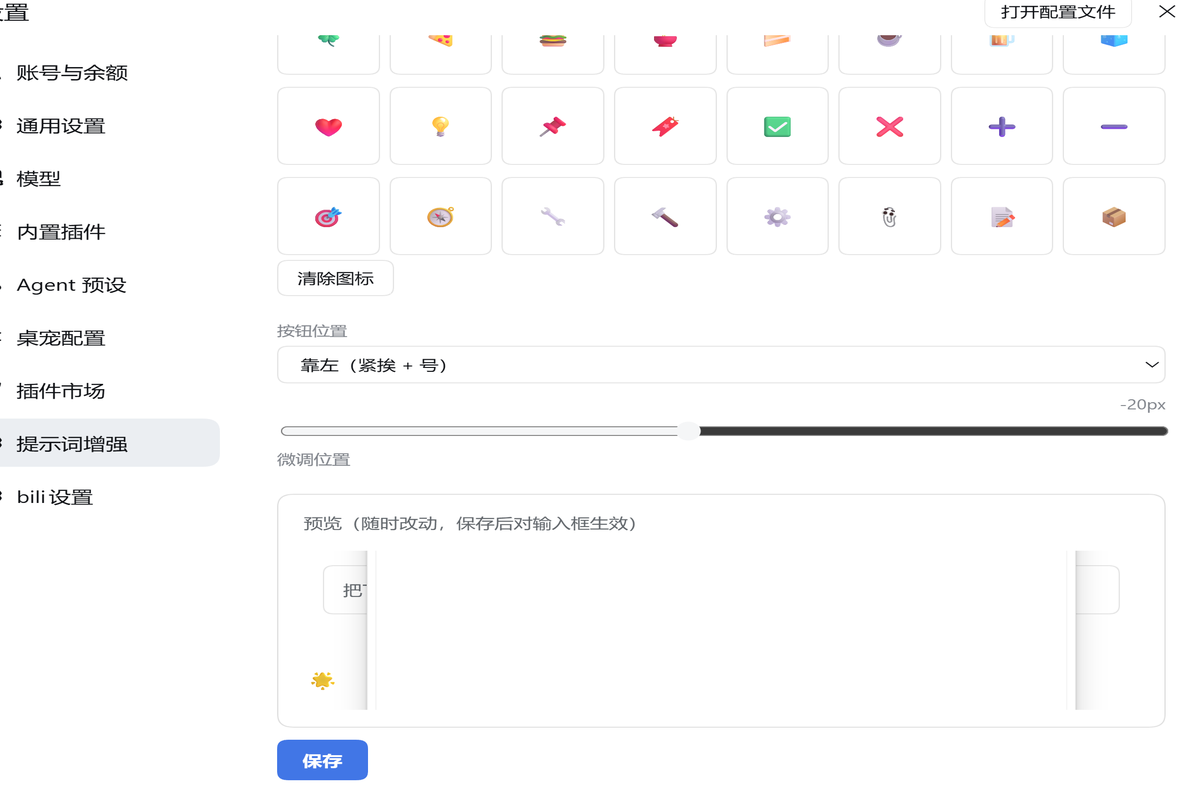
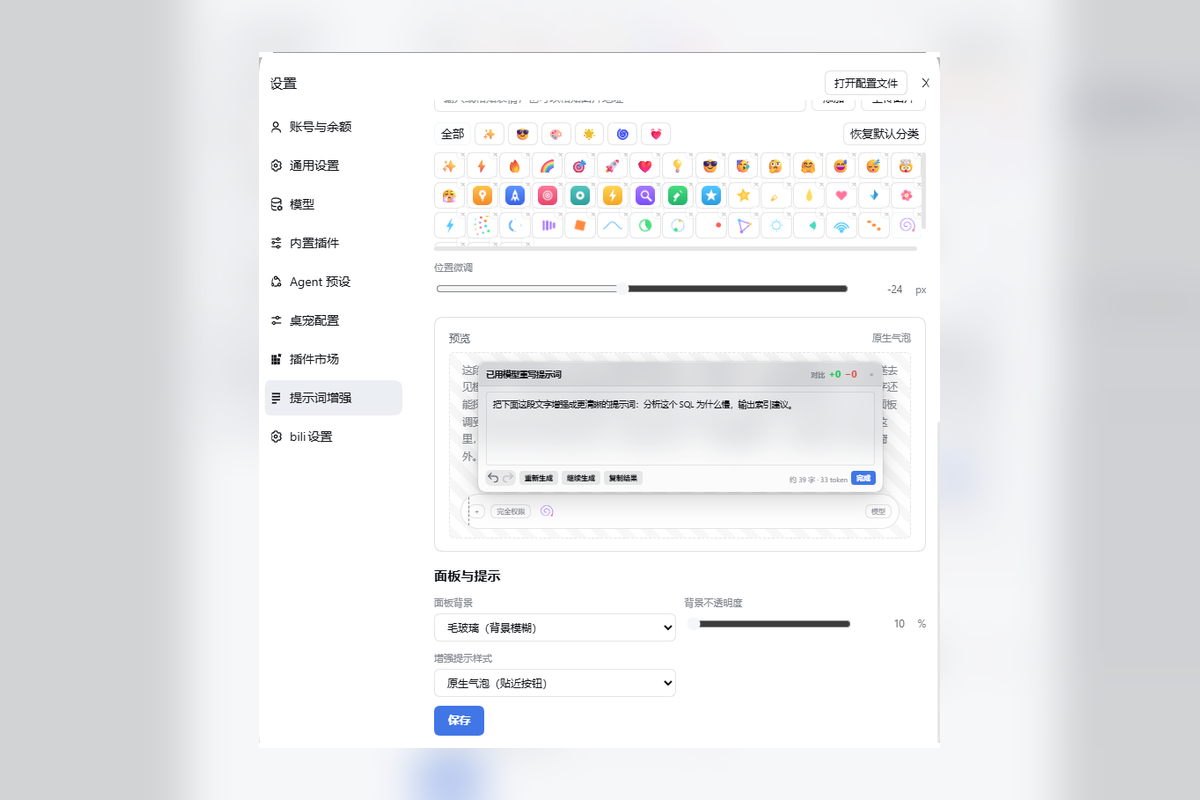
fix(lang): decide 'follow the draft' from the draft itself
用户选「跟随原文」（language=auto），中文输入却拿到英文结果：
auto 分支只有一句 `Use the same language as the original prompt.`，而系统提示词正文
（内置模板 / 用户自定义）整段是英文，这句单薄的指令压不住。

现在 auto 按草稿自身的字符判语言：含 CJK ⇒ 钉成中文并明确「正文是英文与
此无关、本规则覆盖上面的指令」；否则钉成英文并禁止顺手翻译。系统提示词
组装函数多收一个 sourceText 参数，/enhance 与 /continue 都把草稿传进去；/meta
用一段中文样例组装，设置页看到的「最终提示词」就是中文输入时真正发送的内容。

另外按用户要求重裁 05/06 两张截图：设置面板水平垂直居中、内容不裁。

diff --git a/src/config.js b/src/config.js
@@ -371,11 +371,36 @@ export function normalizeSettings(raw) {
   return out
 }
 
-/** One shared language rule so every mode picks the same output language. */
-function languageRule(settings) {
-  return settings.language === 'zh' ? 'Write the output in Chinese.'
-    : settings.language === 'en' ? 'Write the output in English.'
-    : 'Use the same language as the original prompt.'
+/**
+ * One shared language rule so every mode picks the same output language.
+ *
+ * m21352：用户选了「跟随原文」，中文输入却拿到英文结果。原来 auto 分支只有一句
+ * `Use the same language as the original prompt.` —— 而系统提示词正文（内置模板
+ * 或用户自定义）全是英文，模型被大段英文带着走，这句单薄的指令压不住。
+ *
+ * 现在把 auto 拆成两支，并且**以原文自身的文字为准**：只要草稿里有中文字符，
+ * 就把语言钉成中文（并明确「正文是英文是无关的」）；否则钉成英文，并禁止
+ * 「顺手翻译成中文」。两支都不再依赖模型自己去判断「原 prompt 是什么语言」。
+ */
+function hasCjk(text) {
+  return /[\u3400-\u4dbf\u4e00-\u9fff\uf900-\ufaff]/.test(String(text || ''))
+}
+
+function languageRule(settings, sourceText) {
+  if (settings.language === 'zh') return 'Write the output in Chinese.'
+  if (settings.language === 'en') return 'Write the output in English.'
+  if (hasCjk(sourceText)) {
+    return [
+      'Output language: Chinese. The original draft is in Chinese, so write the whole answer in Chinese.',
+      'This rule overrides the language of the instructions above — they are written in English for precision, but the answer must be Chinese.',
+      'Keep code, file paths, identifiers, commands and version numbers byte-for-byte as they appear; only the prose is Chinese.',
+    ].join('\n')
+  }
+  return [
+    'Output language: English. The original draft contains no Chinese characters, so write the whole answer in English.',
+    'Do not translate the answer into Chinese, and do not add a Chinese version of it.',
+    'Keep code, file paths, identifiers, commands and version numbers byte-for-byte as they appear.',
+  ].join('\n')
 }
 
 /**
@@ -386,21 +411,24 @@ function languageRule(settings) {
  * contract lines are *never* replaceable — they are what keeps a reply usable as
  * a prompt (only the result, no preamble, no code fence, don't answer it), and a
  * config that loses them produces panels full of the model's own commentary.
+ *
+ * `sourceText` (m21352) is the draft being rewritten; only the `auto` language
+ * branch reads it, to decide Chinese vs English from the text itself.
  */
-function composeSystemPrompt(settings, roleLines, contractLines) {
+function composeSystemPrompt(settings, roleLines, contractLines, sourceText) {
   const custom = typeof settings.systemPrompt === 'string' ? settings.systemPrompt.trim() : ''
   const role = custom !== '' ? [custom] : roleLines
-  return role.concat([languageRule(settings), 'Rules:'], contractLines).filter(Boolean).join('\n')
+  return role.concat([languageRule(settings, sourceText), 'Rules:'], contractLines).filter(Boolean).join('\n')
 }
 
 /** Built-in system prompt for the rewrite call. */
-export function enhanceSystemPrompt(settings) {
+export function enhanceSystemPrompt(settings, sourceText) {
   return composeSystemPrompt(settings, [DEFAULT_SYSTEM_PROMPT_BODY], [
     '- Output ONLY the rewritten prompt as plain text — no quotes, no preamble, no explanation, no Markdown code fences around the whole answer.',
     '- Preserve every explicit requirement, path, identifier and number from the original.',
     '- Never invent requirements the original does not imply.',
     '- Do not answer the prompt; rewrite it.',
-  ])
+  ], sourceText)
 }
 
 /**
@@ -409,7 +437,7 @@ export function enhanceSystemPrompt(settings) {
  * The answer is appended to the existing text by the caller, so the model must
  * emit the continuation ONLY — repeating the original would duplicate it.
  */
-export function continueSystemPrompt(settings) {
+export function continueSystemPrompt(settings, sourceText) {
   return composeSystemPrompt(settings, [
     'The user is still writing a prompt for an AI coding assistant and has stopped mid-thought. Continue that prompt from exactly where it ends.',
   ], [
@@ -418,7 +446,7 @@ export function continueSystemPrompt(settings) {
     '- Add the concrete detail the user most plausibly wants next: constraints, inputs and outputs, edge cases, acceptance criteria.',
     '- Never contradict or invent facts, paths, numbers or requirements that conflict with the original.',
     '- No preamble, no explanation, no Markdown code fence around the whole answer.',
-  ])
+  ], sourceText)
 }
 
 /**

diff --git a/index.js b/index.js
@@ -33,6 +33,13 @@ export const inject = ['llm']
 
 const PLUGIN_VERSION = readPackageVersion()
 
+/**
+ * m21352：`GET /meta` 要展示「现在发出去的最终系统提示词」，而语言规则在
+ * `auto` 模式下依赖草稿本身。用一段中文样例去组装，「查看最终提示词」里看到
+ * 的就是中文输入时真正发送的内容（以前没有样例，auto 会退化成英文分支）。
+ */
+const DEFAULT_SYSTEM_PROMPT_SAMPLE = '把这个需求改写成一条可以直接执行的提示词'
+
 function readPackageVersion() {
   try {
     return String(JSON.parse(fs.readFileSync(path.join(PKG_DIR, 'package.json'), 'utf8')).version ?? '')
@@ -407,7 +414,8 @@ export function apply(ctx) {
     if (draft === '') return { ok: false, error: { code: 'EMPTY_DRAFT', message: '输入框是空的，没有可增强的内容。' } }
 
     const continuing = mode === 'continue'
-    const system = continuing ? continueSystemPrompt(settings) : enhanceSystemPrompt(settings)
+    // m21352：「跟随原文」由草稿自身的文字决定，所以要把它传进系统提示词组装。
+    const system = continuing ? continueSystemPrompt(settings, draft) : enhanceSystemPrompt(settings, draft)
     const framed = continuing ? continueUserText(draft) : enhanceUserText(text)
     const helpers = await loadLlmHelpers(logger.warn)
     const messages = [helpers.createUserMessage
@@ -640,8 +648,8 @@ export function apply(ctx) {
           // (src/config.js) instead of a second copy in the client that drifts.
           // A custom systemPrompt never leaks in here — this is "什么才是默认".
           prompts: {
-            rewrite: enhanceSystemPrompt(settings),
-            continue: continueSystemPrompt(settings),
+            rewrite: enhanceSystemPrompt(settings, DEFAULT_SYSTEM_PROMPT_SAMPLE),
+            continue: continueSystemPrompt(settings, DEFAULT_SYSTEM_PROMPT_SAMPLE),
           },
         })
       }
